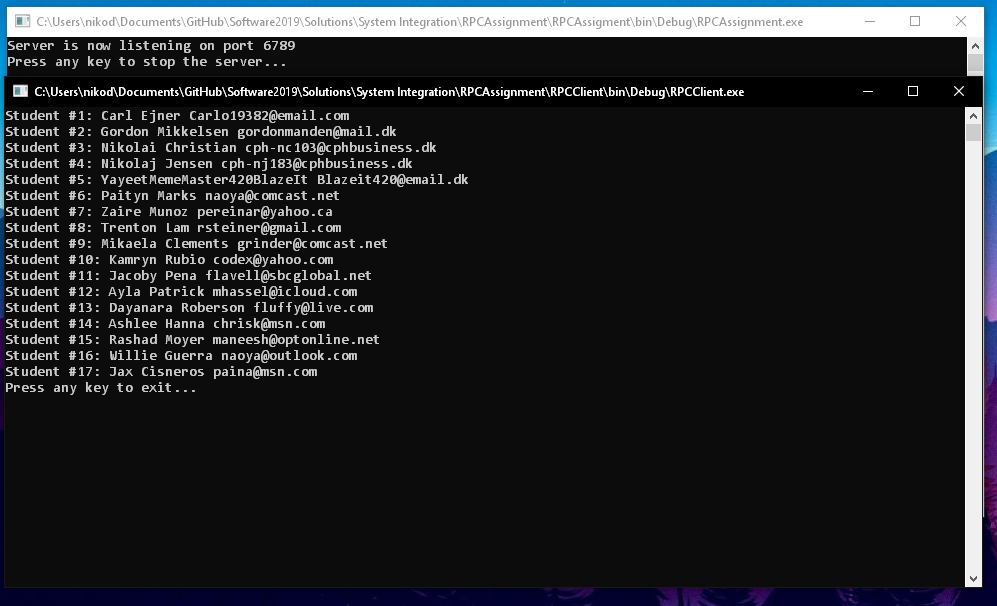
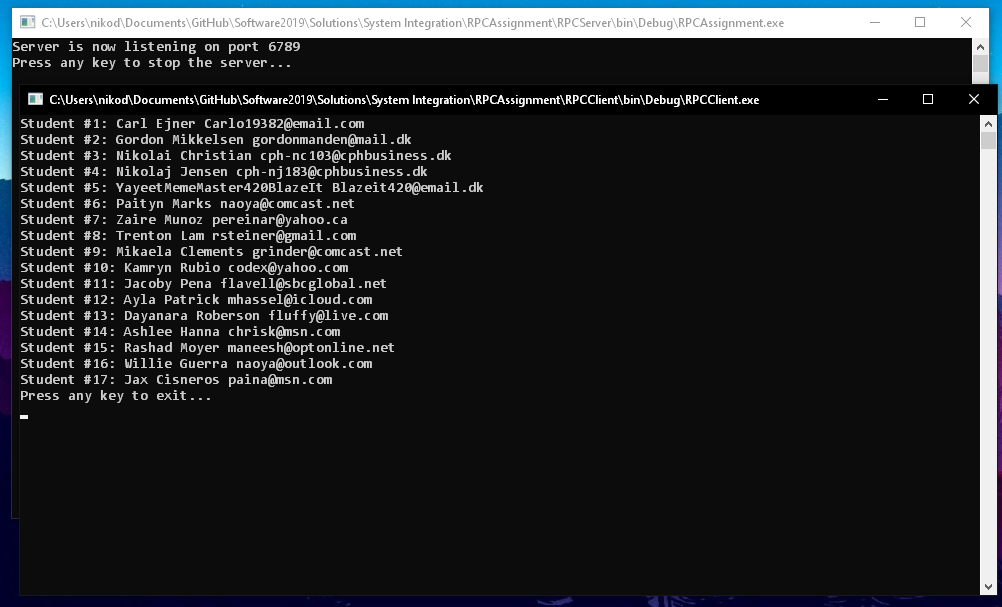
Typo's fixed.

Changed region(s): [[0.0, 0.0, 1.0, 1.0], [0.9017, 0.1485, 0.9328, 0.1782]]

diff --git a/Solutions/System Integration/RPCAssignment/RPCServer/DataManager.cs b/Solutions/System Integration/RPCAssignment/RPCServer/DataManager.cs
@@ -10,7 +10,7 @@ namespace RPCAssignment
 {
     public class DataManager
     {
-        private string TXTFILEPATH = "C:\\Users\\nikod\\Documents\\GitHub\\Software2019\\Solutions\\System Integration\\RPCAssignment\\RPCAssigment\\TextFiles\\Students.txt";
+        private string TXTFILEPATH = "C:\\Users\\nikod\\Documents\\GitHub\\Software2019\\Solutions\\System Integration\\RPCAssignment\\RPCServer\\TextFiles\\Students.txt";
         private string connectionString = "Data Source=(LocalDB)\\MSSQLLocalDB;AttachDbFilename=C:\\Users\\nikod\\Documents\\MSSQLLocalDB.mdf;Integrated Security=True;Connect Timeout=30";
 
         // The method for getting students from the database using the connectionString given above.
